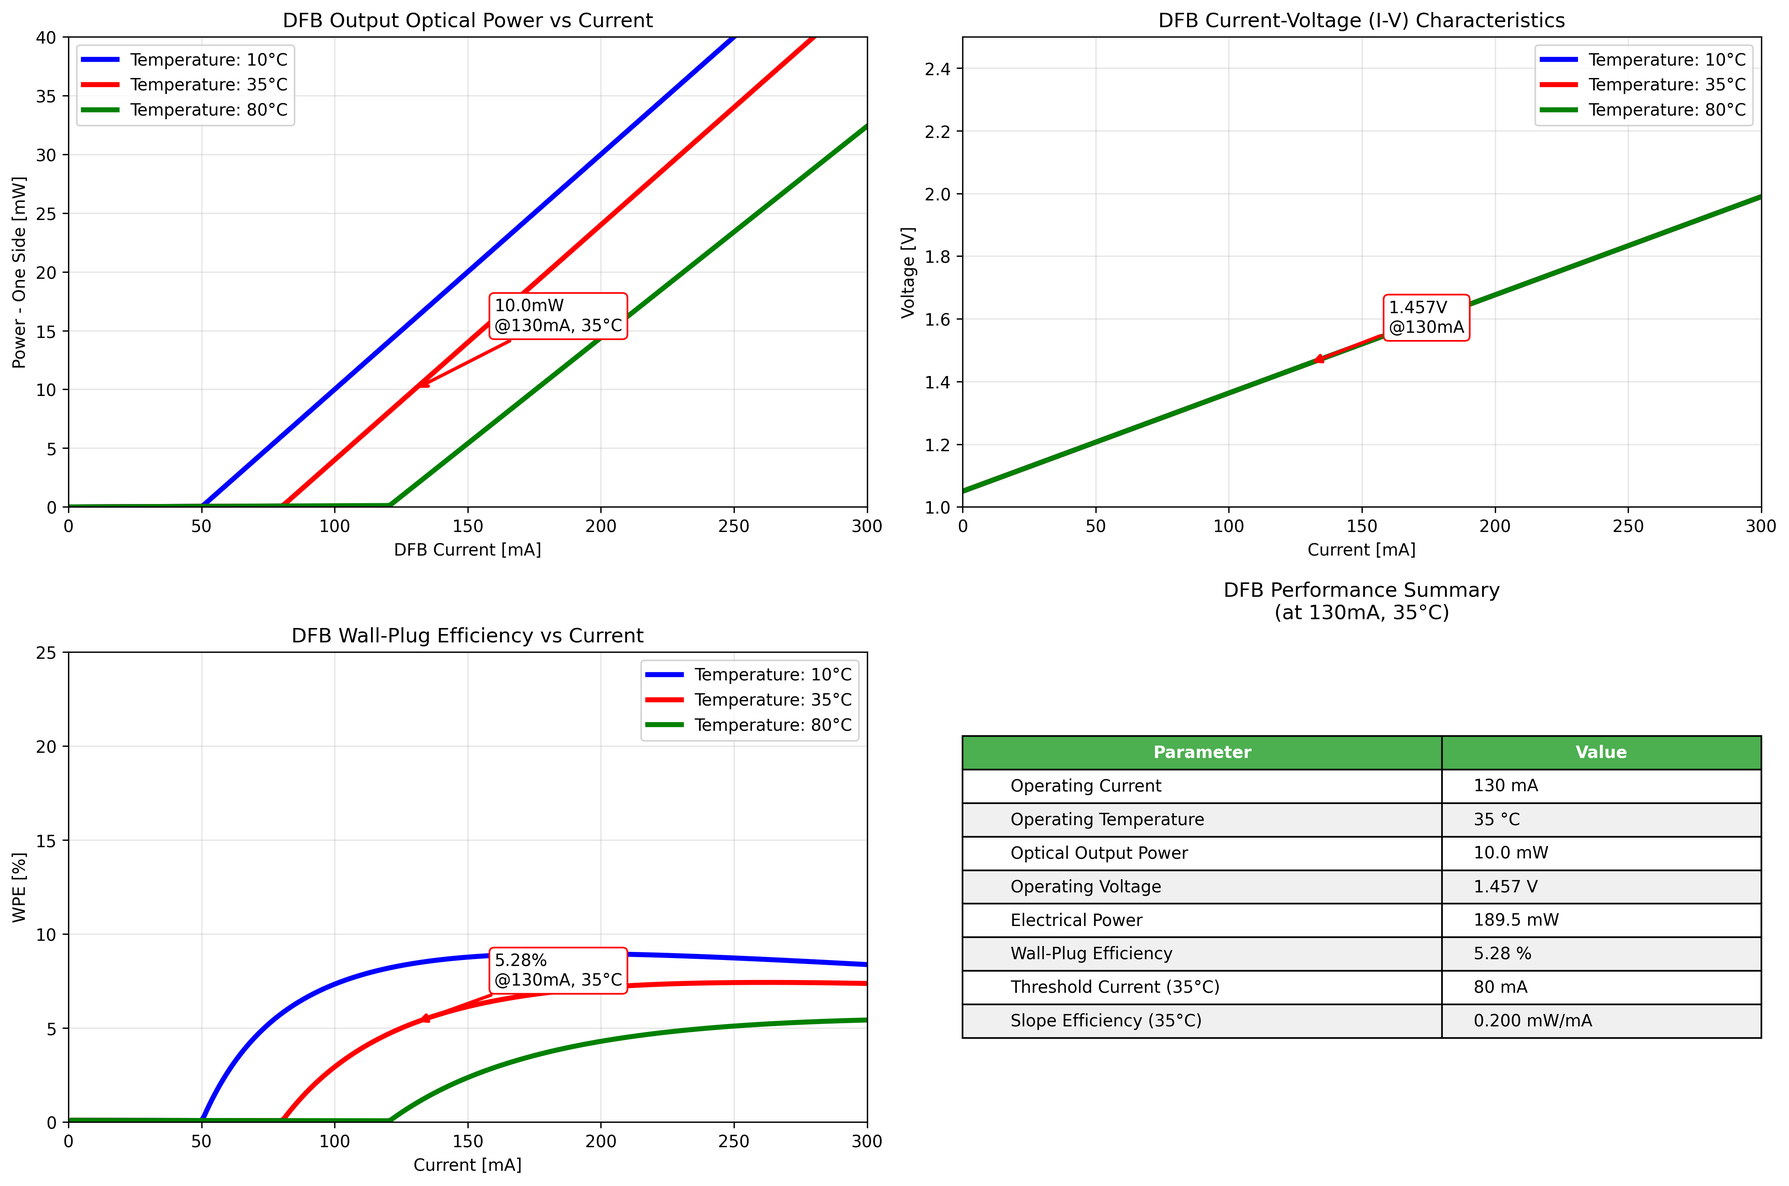
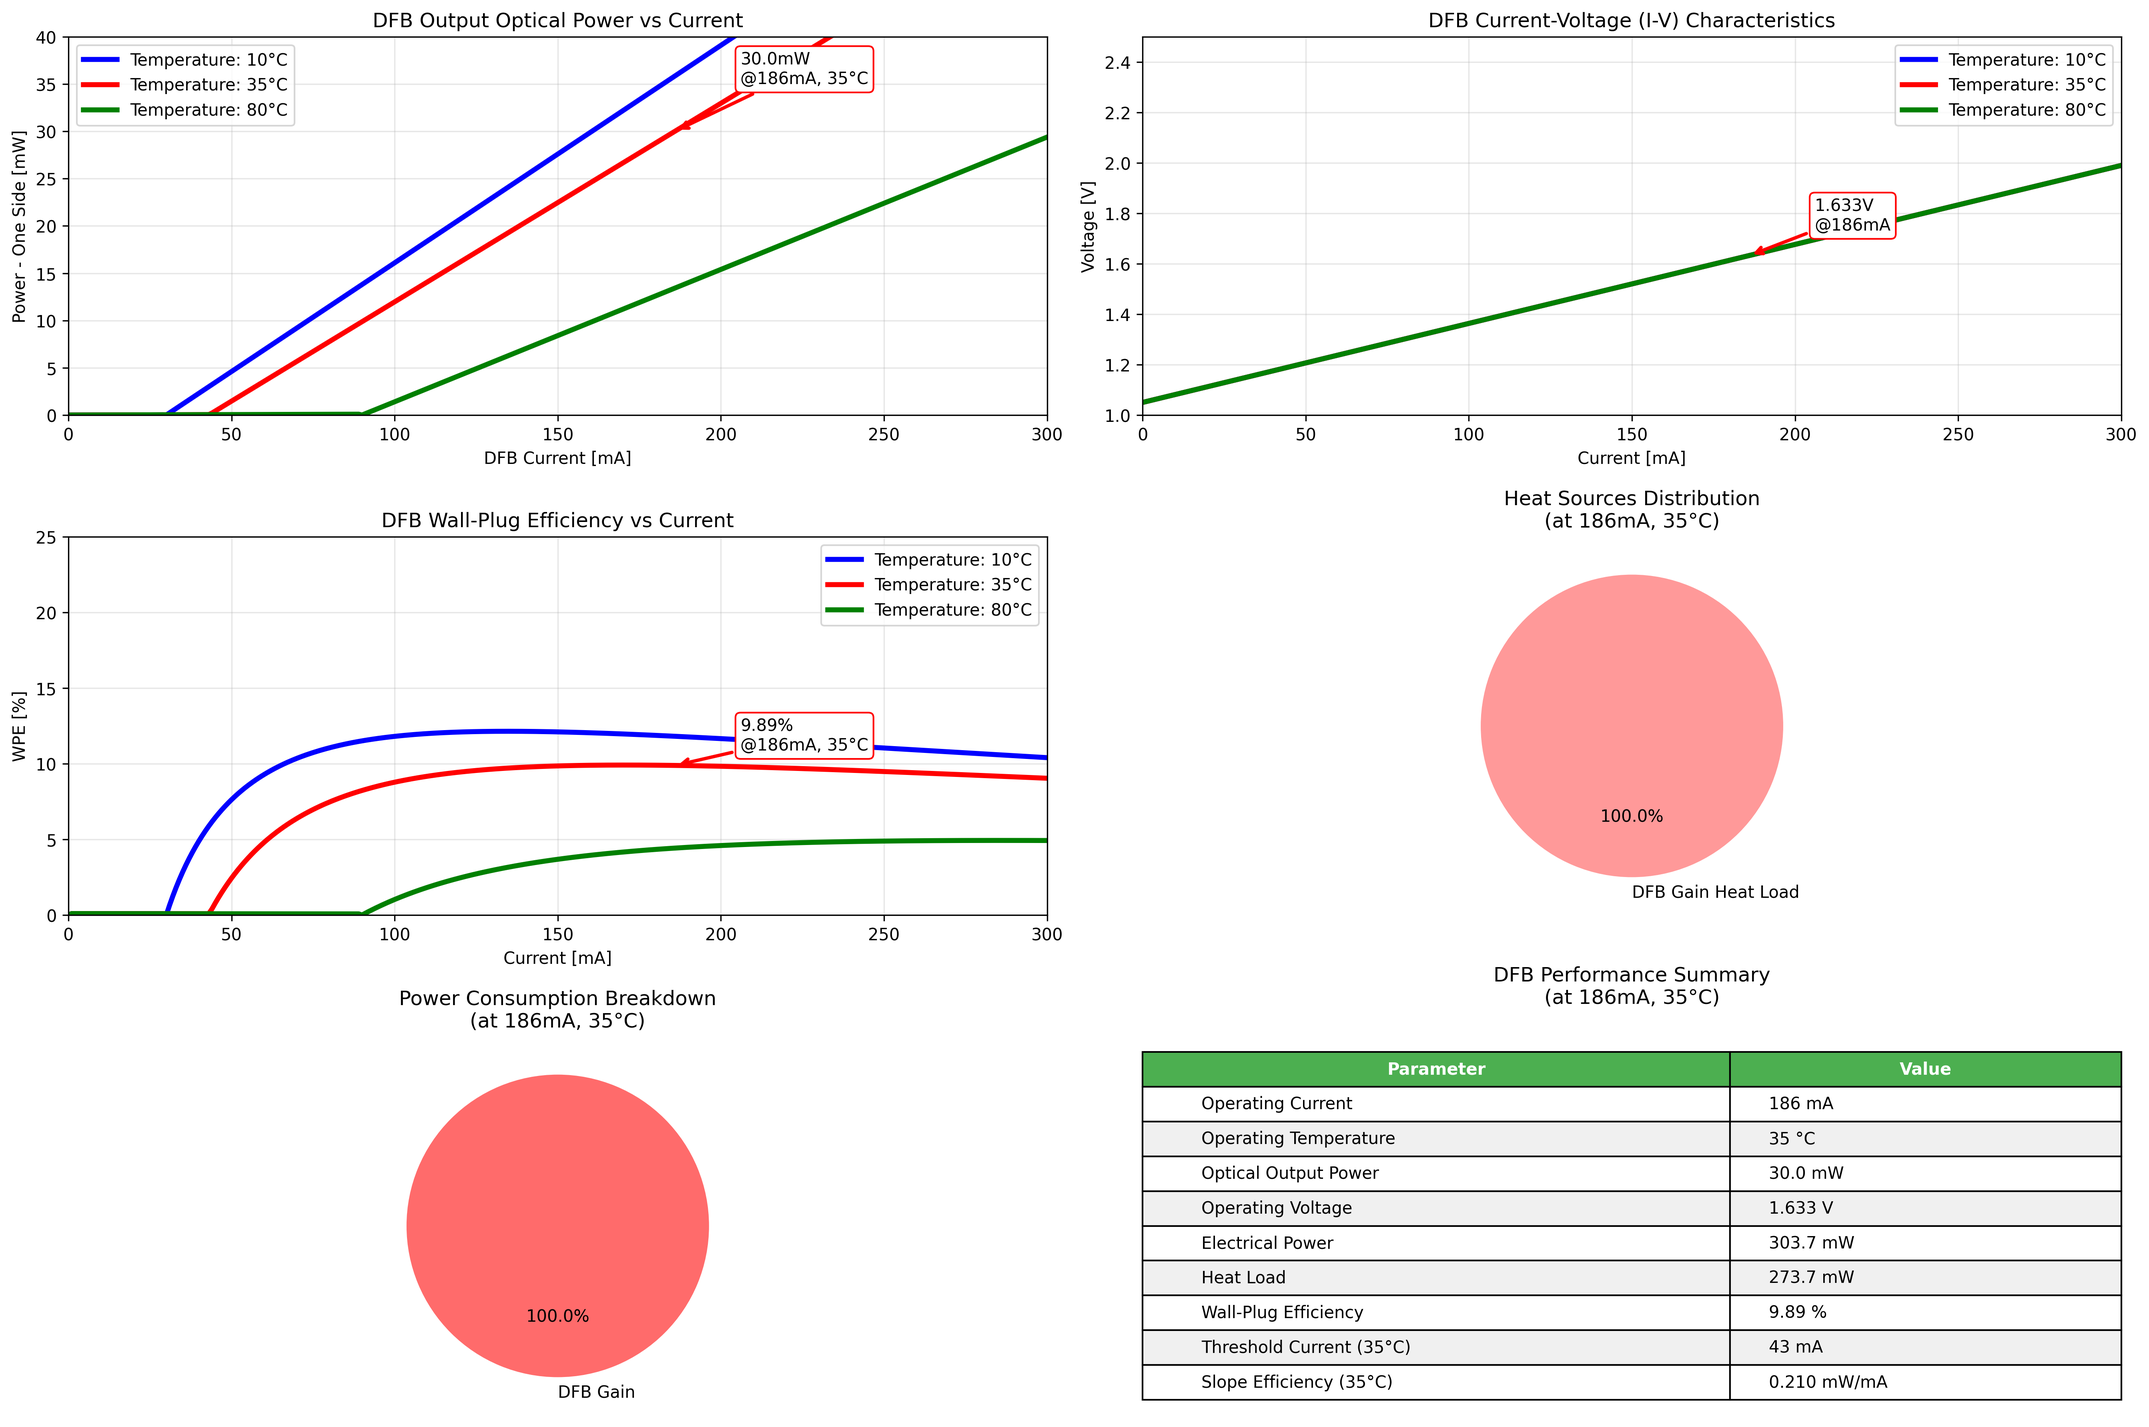
Enhanced DFB model with heat load analysis and pie charts
Major Updates:
- Changed annotation point from 130mA to 186mA, 35°C for better analysis
- Updated threshold currents based on user feedback:
  * 10°C: 30mA (was 50mA), 35°C: 43mA (was 80mA), 80°C: 90mA (was 120mA)
- Updated slope efficiencies:
  * 10°C: 0.23 mW/mA, 35°C: 0.21 mW/mA, 80°C: 0.14 mW/mA

New Heat Load Features:
- Added get_dfb_heat_load() method to calculate thermal dissipation
- Added get_heat_sources() method for heat source breakdown
- Added get_power_consumption() method for power analysis
- Heat load = Electrical Power - Optical Output Power

Enhanced Plotting:
- Interactive plot now uses 2×3 grid layout (was 2×2)
- Added Heat Sources Distribution pie chart
- Added Power Consumption Breakdown pie chart
- Updated performance summary table to include heat load
- Matplotlib plot changed to 3×2 grid with pie charts

Performance at 186mA, 35°C:
- Optical Output: 30.0mW
- Electrical Power: 303.7mW
- Heat Load: 273.7mW
- Wall-Plug Efficiency: 9.89%

All plots now consistently show annotations at 186mA, 35°C operating point.

diff --git a/src/models/DFB.py b/src/models/DFB.py
@@ -36,17 +36,17 @@ class DFB:
         
         # Temperature-dependent threshold currents (mA) - based on image analysis
         self.threshold_currents = {
-            10: 50.0,   # 10°C threshold (blue line starts around 50mA)
-            35: 80.0,   # 35°C threshold (red line starts around 80mA)
-            80: 120.0   # 80°C threshold (green line starts around 120mA)
+            10: 30.0,   # 10°C threshold (blue line starts around 30mA)
+            35: 43.0,   # 35°C threshold (red line starts around 43mA)
+            80: 90.0   # 80°C threshold (green line starts around 90mA)
         }
         
         # Temperature-dependent slope efficiencies (mW/mA) - based on image analysis
         # From the image: all lines appear to have similar slopes, approximately 0.2 mW/mA
         self.slope_efficiencies = {
-            10: 0.20,   # 10°C slope efficiency
-            35: 0.20,   # 35°C slope efficiency
-            80: 0.18    # 80°C slope efficiency (slightly lower at high temp)
+            10: 0.23,   # 10°C slope efficiency
+            35: 0.21,   # 35°C slope efficiency
+            80: 0.14    # 80°C slope efficiency (slightly lower at high temp)
         }
         
         # Temperature-dependent maximum output powers (mW) - no clipping, allow natural progression
@@ -190,9 +190,59 @@ class DFB:
             return (output_power / 1000.0) / input_power * 100  # Convert mW to W
         return 0.0
     
+    def get_dfb_heat_load(self, temperature, current):
+        """
+        Calculate DFB heat load (remaining electrical power not converted to optical)
+        
+        Args:
+            temperature (float): Temperature in Celsius
+            current (float): Current in mA
+            
+        Returns:
+            float: DFB heat load in mW
+        """
+        output_power = self.calculate_output_power(temperature, current)
+        operating_voltage = self.get_operating_voltage(current)
+        electrical_power_mw = current * operating_voltage  # P = I * V (mA * V = mW)
+        
+        # Heat load is electrical power minus optical power output
+        heat_load = electrical_power_mw - output_power
+        return max(0, heat_load)  # Ensure non-negative
+    
+    def get_heat_sources(self, temperature, current):
+        """
+        Get breakdown of heat sources (for DFB, only one source: the gain section)
+        
+        Args:
+            temperature (float): Temperature in Celsius
+            current (float): Current in mA
+            
+        Returns:
+            dict: Dictionary with heat source breakdown
+        """
+        return {
+            'DFB Gain Heat Load': self.get_dfb_heat_load(temperature, current)
+        }
+    
+    def get_power_consumption(self, temperature, current):
+        """
+        Get power consumption breakdown (for DFB, only electrical power to gain section)
+        
+        Args:
+            temperature (float): Temperature in Celsius
+            current (float): Current in mA
+            
+        Returns:
+            dict: Dictionary with power consumption breakdown
+        """
+        electrical_power = current * self.get_operating_voltage(current)
+        return {
+            'DFB Gain': electrical_power
+        }
+
     def create_interactive_plot(self, save_path=None):
         """
-        Create an interactive Plotly plot showing all temperatures simultaneously
+        Create an interactive Plotly plot showing all temperatures simultaneously with heat source pie chart
         
         Args:
             save_path (str): Path to save the HTML file (optional, not saved by default)
@@ -201,23 +251,25 @@ class DFB:
         available_temps = [10, 35, 80]
         current_range = (0, 300, 1)  # Extended range for DFB
         
-        # Operating point for annotations
-        annotation_current = 130  # mA
+        # Operating point for annotations and pie charts
+        annotation_current = 186  # mA (changed from 130)
         annotation_temp = 35      # °C
         
-        # Create subplots - 2x2 grid: Pout, I-V, DFB WPE, Power Consumption
+        # Create subplots - 2x3 grid: Pout, I-V, DFB WPE, Heat Sources Pie Chart, Power Consumption Pie Chart, Performance Summary
         fig = make_subplots(
-            rows=2, cols=2,
+            rows=2, cols=3,
             subplot_titles=(
                 'DFB Output Optical Power vs Current', 
                 'DFB Current-Voltage (I-V) Characteristics',
                 'DFB Wall-Plug Efficiency vs Current',
+                f'Heat Sources Distribution (at {annotation_current}mA, {annotation_temp}°C)',
+                f'Power Consumption Breakdown (at {annotation_current}mA, {annotation_temp}°C)',
                 f'DFB Performance Summary (at {annotation_current}mA, {annotation_temp}°C)'
             ),
-            specs=[[{"type": "scatter"}, {"type": "scatter"}],
-                   [{"type": "scatter"}, {"type": "table"}]],
-            vertical_spacing=0.15,
-            horizontal_spacing=0.1
+            specs=[[{"type": "scatter"}, {"type": "scatter"}, {"type": "scatter"}],
+                   [{"type": "pie"}, {"type": "pie"}, {"type": "table"}]],
+            vertical_spacing=0.12,
+            horizontal_spacing=0.08
         )
         
         # Color palette
@@ -263,7 +315,7 @@ class DFB:
                 row=1, col=2
             )
             
-            # DFB WPE plot (Row 2, Col 1) - Solid lines
+            # DFB WPE plot (Row 1, Col 3) - Solid lines
             fig.add_trace(
                 go.Scatter(
                     x=currents,
@@ -274,10 +326,10 @@ class DFB:
                     legendgroup=f'temp_{temp}',
                     showlegend=False
                 ),
-                row=2, col=1
+                row=1, col=3
             )
         
-        # Add annotations at 130mA, 35°C
+        # Add annotations at 186mA, 35°C
         annotation_power = self.calculate_output_power(annotation_temp, annotation_current)
         annotation_voltage = self.get_operating_voltage(annotation_current)
         annotation_wpe = self.get_dfb_wpe(annotation_temp, annotation_current)
@@ -306,25 +358,57 @@ class DFB:
             text=f"{annotation_wpe:.2f}%<br>@{annotation_current}mA, {annotation_temp}°C",
             showarrow=True, arrowhead=2, arrowcolor="red", arrowwidth=2,
             bgcolor="white", bordercolor="red", borderwidth=2,
+            row=1, col=3
+        )
+        
+        # Add pie chart for heat sources (at 186mA, 35°C)
+        heat_sources = self.get_heat_sources(annotation_temp, annotation_current)
+        fig.add_trace(
+            go.Pie(
+                labels=list(heat_sources.keys()),
+                values=list(heat_sources.values()),
+                name="Heat Sources",
+                textinfo='label+percent+value',
+                texttemplate='%{label}<br>%{value:.1f}mW<br>(%{percent})',
+                hovertemplate='<b>%{label}</b><br>Heat Load: %{value:.1f}mW<br>Percentage: %{percent}<extra></extra>',
+                marker=dict(colors=['#ff9999'])
+            ),
             row=2, col=1
+        )
+        
+        # Add pie chart for power consumption breakdown (at 186mA, 35°C)
+        power_consumption = self.get_power_consumption(annotation_temp, annotation_current)
+        
+        fig.add_trace(
+            go.Pie(
+                labels=list(power_consumption.keys()),
+                values=list(power_consumption.values()),
+                name="Power Consumption",
+                textinfo='label+percent+value',
+                texttemplate='%{label}<br>%{value:.1f}mW<br>(%{percent})',
+                hovertemplate='<b>%{label}</b><br>Power: %{value:.1f}mW<br>Percentage: %{percent}<extra></extra>',
+                marker=dict(colors=['#ff6b6b'])
+            ),
+            row=2, col=2
         )
         
         # Add performance summary table
         electrical_power = annotation_current * self.get_operating_voltage(annotation_current)
+        heat_load = self.get_dfb_heat_load(annotation_temp, annotation_current)
         fig.add_trace(
             go.Table(
                 header=dict(values=['Parameter', 'Value', 'Unit'],
                            fill_color='lightblue',
                            align='left'),
                 cells=dict(values=[
-                    ['Operating Current', 'Operating Temperature', 'Optical Output', 'Operating Voltage', 'Electrical Power', 'Wall-Plug Efficiency'],
-                    [f'{annotation_current}', f'{annotation_temp}', f'{annotation_power:.1f}', f'{annotation_voltage:.3f}', f'{electrical_power:.1f}', f'{annotation_wpe:.2f}'],
-                    ['mA', '°C', 'mW', 'V', 'mW', '%']
+                    ['Operating Current', 'Operating Temperature', 'Optical Output', 'Operating Voltage', 'Electrical Power', 'Heat Load', 'Wall-Plug Efficiency'],
+                    [f'{annotation_current}', f'{annotation_temp}', f'{annotation_power:.1f}', f'{annotation_voltage:.3f}', f'{electrical_power:.1f}', f'{heat_load:.1f}', f'{annotation_wpe:.2f}'],
+                    ['mA', '°C', 'mW', 'V', 'mW', 'mW', '%']
                 ],
                 fill_color='white',
                 align='left')
             ),
-            row=2, col=2
+            row=2, col=3
         )
         
         # Update layout
@@ -348,12 +432,12 @@ class DFB:
         # Update x-axes
         fig.update_xaxes(title_text="Current [mA]", row=1, col=1)
         fig.update_xaxes(title_text="Current [mA]", row=1, col=2)
-        fig.update_xaxes(title_text="Current [mA]", row=2, col=1)
+        fig.update_xaxes(title_text="Current [mA]", row=1, col=3)
         
         # Update y-axes with appropriate ranges
         fig.update_yaxes(title_text="Pout [mW]", range=[0, 40], row=1, col=1)
         fig.update_yaxes(title_text="Voltage [V]", range=[1.0, 2.5], row=1, col=2)
-        fig.update_yaxes(title_text="WPE [%]", range=[0, 25], row=2, col=1)
+        fig.update_yaxes(title_text="WPE [%]", range=[0, 25], row=1, col=3)
         
         # Add grid to scatter plots
         fig.update_xaxes(showgrid=True, gridwidth=1, gridcolor='lightgray')
@@ -383,24 +467,24 @@ class DFB:
         
         colors = ['blue', 'red', 'green']  # Match image colors
         
-        # Operating point for annotations
-        annotation_current = 130  # mA
+        # Operating point for annotations and pie charts
+        annotation_current = 186  # mA (changed from 130)
         annotation_temp = 35      # °C
         
-        plt.figure(figsize=(15, 10))
+        plt.figure(figsize=(18, 12))
         
         # Plot Pout vs Current
-        plt.subplot(2, 2, 1)
+        plt.subplot(3, 2, 1)
         for i, temp in enumerate(temperatures):
             currents, powers = self.get_performance_curve(temp, current_range)
             color = colors[i % len(colors)]
             plt.plot(currents, powers, color=color, linewidth=3, 
                     label=f'Temperature: {temp}°C')
         
-        # Add annotation at 130mA, 35°C
+        # Add annotation at 186mA, 35°C
         annotation_power = self.calculate_output_power(annotation_temp, annotation_current)
         plt.annotate(f'{annotation_power:.1f}mW\n@{annotation_current}mA, {annotation_temp}°C',
-                    xy=(annotation_current, annotation_power), xytext=(annotation_current+30, annotation_power+5),
+                    xy=(annotation_current, annotation_power), xytext=(annotation_current+20, annotation_power+5),
                     arrowprops=dict(arrowstyle='->', color='red', lw=2),
                     bbox=dict(boxstyle="round,pad=0.3", facecolor="white", edgecolor="red"),
                     fontsize=10, ha='left')
@@ -414,7 +498,7 @@ class DFB:
         plt.xlim(0, 300)
         
         # Plot I-V Characteristics
-        plt.subplot(2, 2, 2)
+        plt.subplot(3, 2, 2)
         for i, temp in enumerate(temperatures):
             currents, _ = self.get_performance_curve(temp, current_range)
             voltages = [self.get_operating_voltage(current) for current in currents]
@@ -422,10 +506,10 @@ class DFB:
             plt.plot(currents, voltages, color=color, linewidth=3, 
                     label=f'Temperature: {temp}°C')
         
-        # Add annotation at 130mA
+        # Add annotation at 186mA
         annotation_voltage = self.get_operating_voltage(annotation_current)
         plt.annotate(f'{annotation_voltage:.3f}V\n@{annotation_current}mA',
-                    xy=(annotation_current, annotation_voltage), xytext=(annotation_current+30, annotation_voltage+0.1),
+                    xy=(annotation_current, annotation_voltage), xytext=(annotation_current+20, annotation_voltage+0.1),
                     arrowprops=dict(arrowstyle='->', color='red', lw=2),
                     bbox=dict(boxstyle="round,pad=0.3", facecolor="white", edgecolor="red"),
                     fontsize=10, ha='left')
@@ -439,7 +523,7 @@ class DFB:
         plt.xlim(0, 300)
         
         # Plot DFB Wall-Plug Efficiency
-        plt.subplot(2, 2, 3)
+        plt.subplot(3, 2, 3)
         for i, temp in enumerate(temperatures):
             currents, _ = self.get_performance_curve(temp, current_range)
             dfb_wpe_values = [self.get_dfb_wpe(temp, current) for current in currents]
@@ -448,10 +532,10 @@ class DFB:
             plt.plot(currents, dfb_wpe_values, color=color, linewidth=3,
                     label=f'Temperature: {temp}°C')
         
-        # Add annotation at 130mA, 35°C
+        # Add annotation at 186mA, 35°C
         annotation_wpe = self.get_dfb_wpe(annotation_temp, annotation_current)
         plt.annotate(f'{annotation_wpe:.2f}%\n@{annotation_current}mA, {annotation_temp}°C',
-                    xy=(annotation_current, annotation_wpe), xytext=(annotation_current+30, annotation_wpe+2),
+                    xy=(annotation_current, annotation_wpe), xytext=(annotation_current+20, annotation_wpe+1),
                     arrowprops=dict(arrowstyle='->', color='red', lw=2),
                     bbox=dict(boxstyle="round,pad=0.3", facecolor="white", edgecolor="red"),
                     fontsize=10, ha='left')
@@ -464,18 +548,36 @@ class DFB:
         plt.ylim(0, 25)
         plt.xlim(0, 300)
         
+        # Plot Heat Sources Pie Chart (at 186mA, 35°C)
+        plt.subplot(3, 2, 4)
+        heat_sources = self.get_heat_sources(annotation_temp, annotation_current)
+        colors_pie = ['#ff9999']
+        plt.pie(heat_sources.values(), labels=heat_sources.keys(), autopct='%1.1f%%',
+                colors=colors_pie, startangle=90)
+        plt.title(f'Heat Sources Distribution\n(at {annotation_current}mA, {annotation_temp}°C)')
+        
+        # Plot Power Consumption Pie Chart (at 186mA, 35°C)
+        plt.subplot(3, 2, 5)
+        power_consumption = self.get_power_consumption(annotation_temp, annotation_current)
+        colors_pie2 = ['#ff6b6b']
+        plt.pie(power_consumption.values(), labels=power_consumption.keys(), autopct='%1.1f%%',
+                colors=colors_pie2, startangle=90)
+        plt.title(f'Power Consumption Breakdown\n(at {annotation_current}mA, {annotation_temp}°C)')
+        
         # Plot Performance Summary Table
-        plt.subplot(2, 2, 4)
+        plt.subplot(3, 2, 6)
         plt.axis('off')
         
         # Create performance summary
         electrical_power = annotation_current * self.get_operating_voltage(annotation_current)
+        heat_load = self.get_dfb_heat_load(annotation_temp, annotation_current)
         summary_data = [
             ['Operating Current', f'{annotation_current} mA'],
             ['Operating Temperature', f'{annotation_temp} °C'],
             ['Optical Output Power', f'{annotation_power:.1f} mW'],
             ['Operating Voltage', f'{annotation_voltage:.3f} V'],
             ['Electrical Power', f'{electrical_power:.1f} mW'],
+            ['Heat Load', f'{heat_load:.1f} mW'],
             ['Wall-Plug Efficiency', f'{annotation_wpe:.2f} %'],
             ['Threshold Current (35°C)', f'{self.threshold_currents[35]:.0f} mA'],
             ['Slope Efficiency (35°C)', f'{self.slope_efficiencies[35]:.3f} mW/mA']
@@ -518,8 +620,8 @@ def main():
     """
     Main function to demonstrate DFB model and create interactive plots
     """
-    # Create DFB instance with default parameters (130mA, 35°C)
-    dfb = DFB()
+    # Create DFB instance with default parameters (186mA, 35°C)
+    dfb = DFB(temperature=35.0, current=186.0)
     
     # Print DFB parameters
     print("DFB Model Parameters:")
@@ -537,16 +639,18 @@ def main():
         print(f"{temp}°C - Threshold: {dfb.threshold_currents[temp]:.0f}mA, Slope: {dfb.slope_efficiencies[temp]:.3f}mW/mA")
     print()
     
-    # Show performance analysis at default operating point (130mA, 35°C)
+    # Show performance analysis at default operating point (186mA, 35°C)
     print(f"Performance Analysis at {dfb.current}mA, {dfb.temperature}°C:")
     optical_output = dfb.calculate_output_power(dfb.temperature, dfb.current)
     operating_voltage = dfb.get_operating_voltage(dfb.current)
     electrical_power = dfb.current * operating_voltage
+    heat_load = dfb.get_dfb_heat_load(dfb.temperature, dfb.current)
     wpe = dfb.get_dfb_wpe(dfb.temperature, dfb.current)
     
     print(f"Optical Output Power: {optical_output:.1f}mW")
     print(f"Operating Voltage: {operating_voltage:.3f}V")
     print(f"Electrical Power: {electrical_power:.1f}mW")
+    print(f"Heat Load: {heat_load:.1f}mW")
     print(f"Wall-Plug Efficiency: {wpe:.2f}%")
     print()
     
